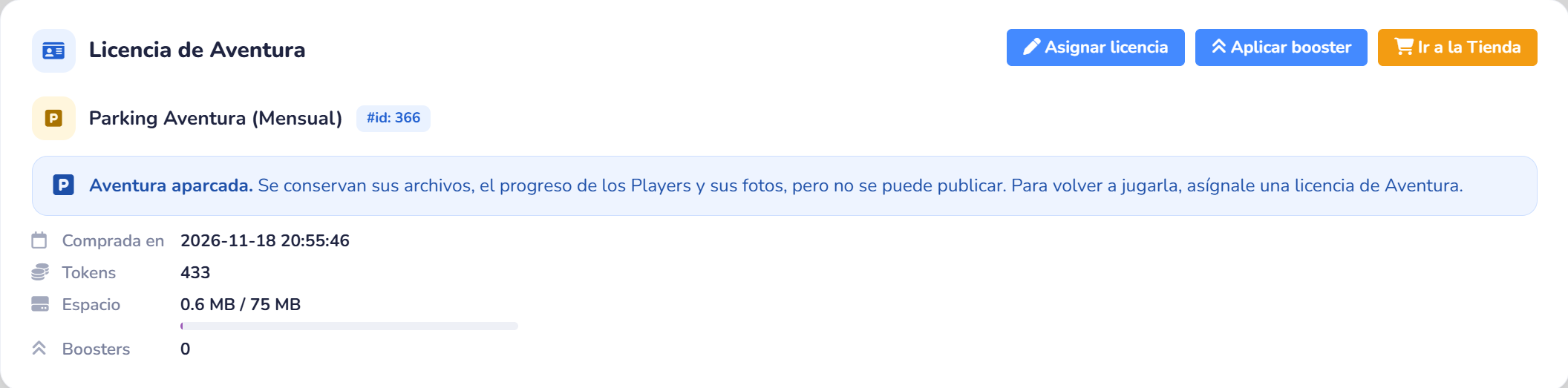
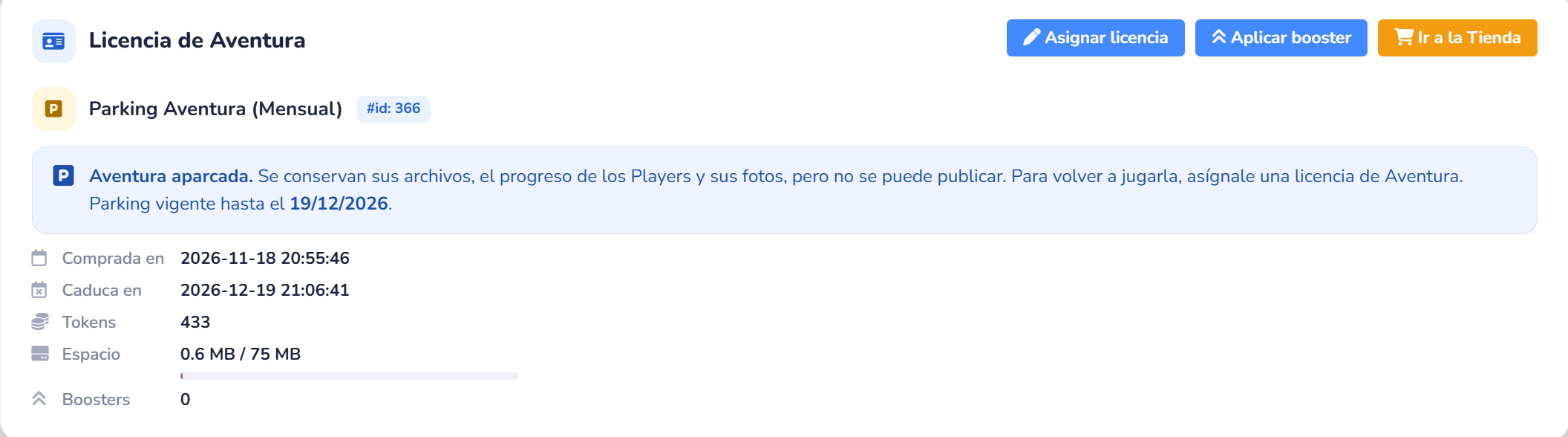
docs: capturas de Licencia Parking tras la corrección del bug
- Aventura aparcada con la fecha de vigencia del Parking
- Selector de Licencias en una Aventura publicada con el Parking desactivado
- Ventana «No se ha podido publicar» con el motivo de Parking

Claude-Session: https://claude.ai/code/session_01BkD6RBUvXH5dvyX1NPKiVi

diff --git a/docs/tokens.md b/docs/tokens.md
@@ -124,15 +124,17 @@ A diferencia de las Licencias de Aventura, que empiezan a contar al publicar, el
 
 1. Abre la Aventura desde el listado de Aventuras.
 2. Si está publicada, cambia su estado a **Draft** y guarda: con la Aventura publicada, las Licencias Parking aparecen desactivadas en el selector con el texto «Despublica la Aventura para poder asignarle un Parking.».
+
+![Selector de Licencias en una Aventura publicada: la Licencia Parking Aventura (Anual) aparece desactivada con el texto Despublica la Aventura para poder asignarle un Parking](/img/gamifier-licencia-parking-selector-publicada.png)
 3. En el apartado **Licencia de Aventura**, pulsa **Asignar licencia**.
 4. Elige **«Parking Aventura (Mensual)»** o **«Parking Aventura (Anual)»** (insignia con una «P») y pulsa **Seleccionar**.
 5. Pulsa **Guardar Aventura**.
 
 ![Selector de Licencias con los filtros por tipo, las dos Licencias Parking (Mensual y Anual, insignia con una P) y la Parking Mensual seleccionada](/img/gamifier-licencia-parking-selector.png)
 
-El apartado muestra la insignia de Parking y el aviso **«Aventura aparcada»**: se conservan sus archivos, el progreso de los Players y sus fotos, pero no se puede publicar.
+El apartado muestra la insignia de Parking y el aviso **«Aventura aparcada»**: se conservan sus archivos, el progreso de los Players y sus fotos, pero no se puede publicar. El aviso indica también **hasta qué día** dura el Parking, que aparece además en **Caduca en**.
 
-![Apartado Licencia de Aventura de una Aventura aparcada: Parking Aventura (Mensual) con su insignia y el aviso Aventura aparcada](/img/gamifier-licencia-parking-aparcada.png)
+![Apartado Licencia de Aventura de una Aventura aparcada: Parking Aventura (Mensual) con su insignia, el aviso Aventura aparcada con la fecha hasta la que está vigente y la fecha de caducidad](/img/gamifier-licencia-parking-aparcada.png)
 
 ### Volver a jugar una Aventura aparcada
 
@@ -141,6 +143,8 @@ El apartado muestra la insignia de Parking y el aviso **«Aventura aparcada»**:
 3. Cambia el estado a **Published**. Desde ese momento empieza a contar la nueva Licencia.
 
 Si intentas publicar una Aventura aparcada sin cambiarle la Licencia, la ventana de motivos te lo indica: «Está aparcada con un Parking: asígnale una licencia de Aventura para poder publicarla.» (ver [¿Por qué no se ha podido publicar?](aventuras/publicar-aventura.md#-por-qué-no-se-ha-podido-publicar)).
+
+![Ventana No se ha podido publicar la Aventura con el motivo Está aparcada con un Parking](/img/gamifier-publicar-motivo-parking.png)
 
 :::note Lo que conviene saber del Parking
 - **Espacio**: el Parking mantiene el límite de espacio que tenía la última Licencia de la Aventura, Boosters incluidos. Lo que quepa en ese límite se conserva entero.
